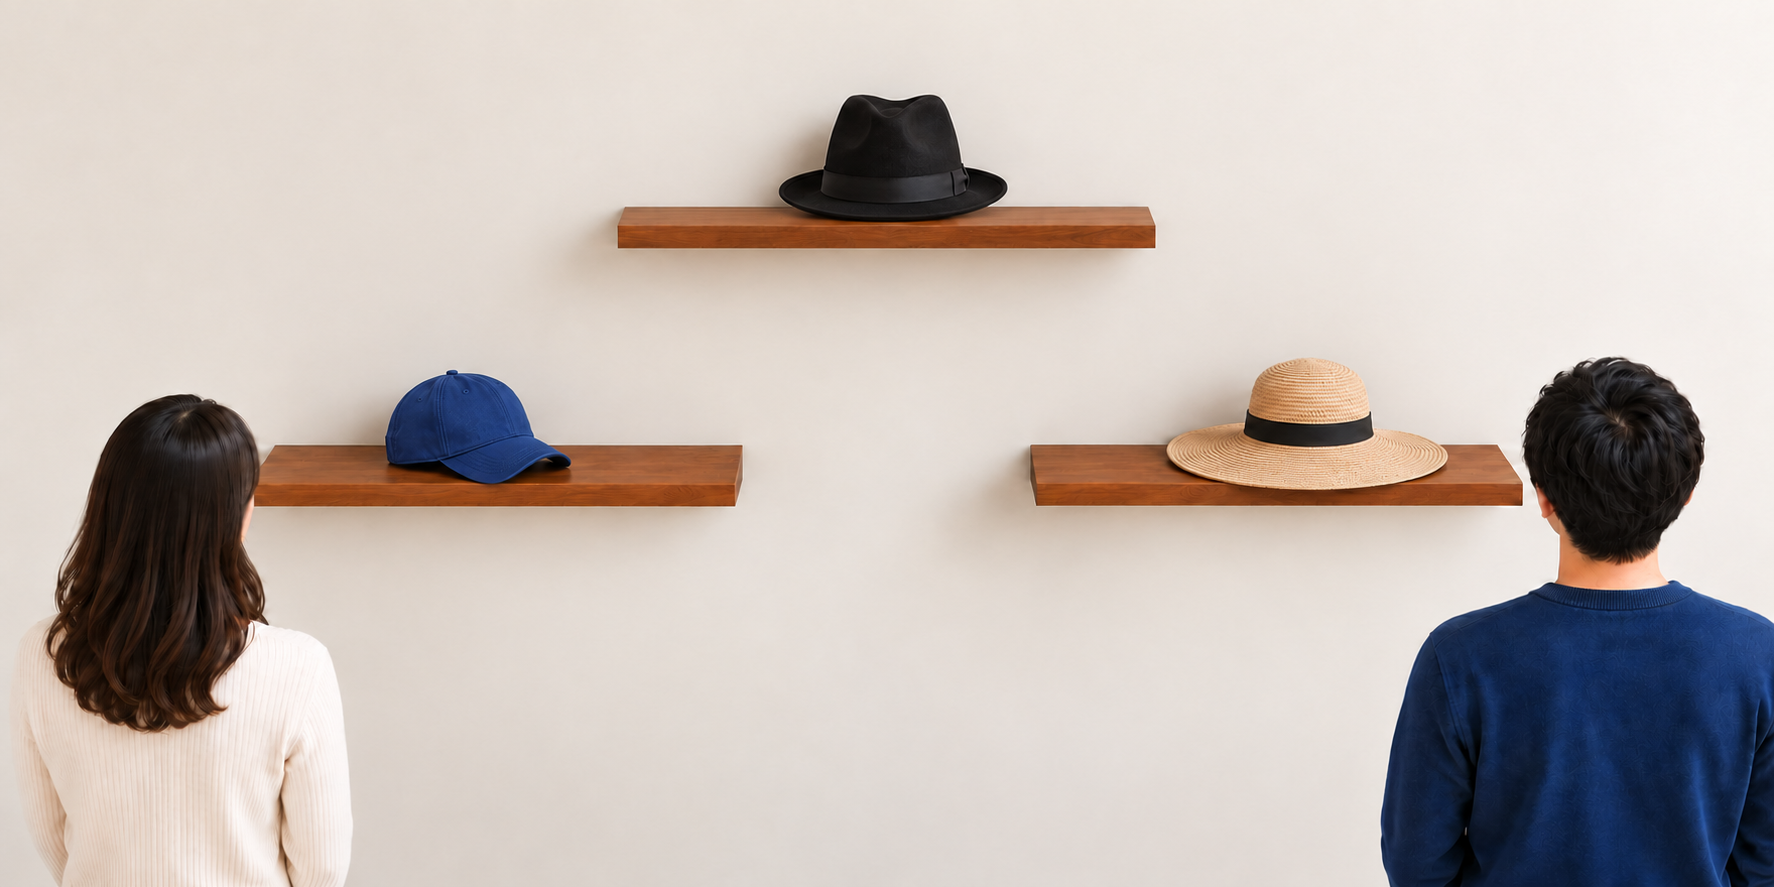
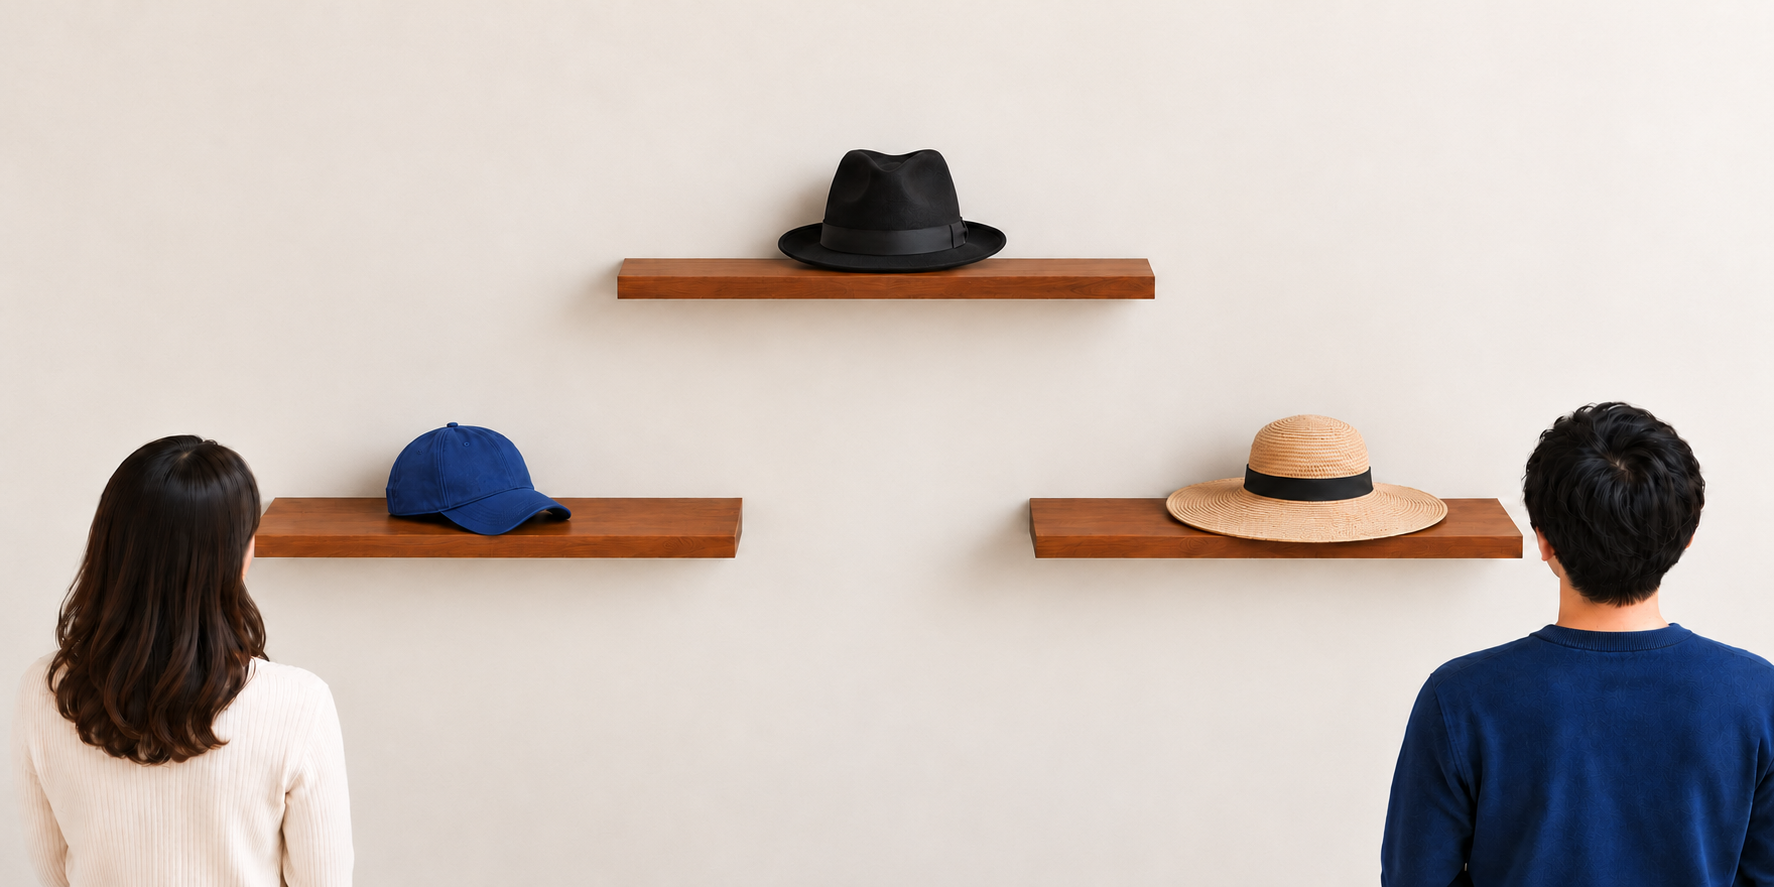
Clarify scene audio and unknown cue, unify spacing and shop frames

diff --git a/practice2-next.js b/practice2-next.js
@@ -1255,6 +1255,15 @@ function practice2ShowNotice(resultSpan, message) {
         const shop=is22&&!people;
         const hats=shop&&(example||Boolean(objects[0]?.photoKind));
         const photoKind=objects[0]?.photoKind;
+        // Coordinates refer to the photographed products, not the surrounding shelf.
+        const shopGeometry={
+            hats:{centers:[[27,54],[74,54],[50,24]],tops:[47,46,17]},
+            bag:{centers:[[27,54],[73,54],[50,26]],tops:[43,44,16]},
+            clock:{centers:[[26.5,55],[73,58],[50,23]],tops:[46,53,14]},
+            fruit:{centers:[[27.5,52],[72.5,53],[50,24]],tops:[46,48,19]},
+            onigiri:{centers:[[27.5,54],[72.5,54],[50,25]],tops:[49,49,20]},
+            bento:{centers:[[30,57],[73,57],[50,28]],tops:[50,50,19]}
+        }[photoKind||'hats'];
         const picture=node('div','p21-drill-picture p2x-picture');
         picture.classList.toggle('p2x-shop-picture',shop);picture.classList.toggle('p2x-cropped-picture',shop);
         picture.classList.toggle('p2x-hat-picture',hats);
@@ -1281,14 +1290,14 @@ function practice2ShowNotice(resultSpan, message) {
         }
         const context=node('p','p21-photo-context p2x-speaker-guide');
         SpeakerGuide.init(context);
-        const peoplePositions=hats?{A:[11,70],B:[88,70]}:people?{A:[7,30],B:[88,27]}:is22?{A:[2,4],B:[94,4]}:{A:[6,17],B:[60,17]};
+        const peoplePositions=hats?{A:[11,78],B:[88,78]}:people?{A:[7,30],B:[88,27]}:is22?{A:[2,4],B:[94,4]}:{A:[6,17],B:[60,17]};
         for(const person of ['A','B']) {
             const label=node('strong','p2x-person',person);label.dataset.person=person;
             label.style.left=peoplePositions[person][0]+'%';label.style.top=peoplePositions[person][1]+'%';stage.append(label);
         }
         const audioGrid=node('div','p2x-audio-grid');
         for(const [i,o] of objects.entries()) {
-            const position=hats?{A:[photoKind==='clock'?26.3:photoKind==='onigiri'||photoKind==='bento'||photoKind==='fruit'?30:25,photoKind==='clock'?44:48],B:[photoKind==='clock'?73:74,photoKind==='clock'?48:46],far:[50,photoKind==='clock'?29:18]}[o.zone]:!is22?{A:[20,84],B:[51,84],far:[84,76]}[o.zone]:people?{A:[28,48],B:[73,46],far:[50,35]}[o.zone]:{A:[25,52],B:[73,53],far:[50,23.5]}[o.zone];
+            const position=hats?shopGeometry.centers[['A','B','far'].indexOf(o.zone)]:!is22?{A:[20,84],B:[51,84],far:[84,76]}[o.zone]:people?{A:[28,48],B:[73,46],far:[50,35]}[o.zone]:{A:[25,52],B:[73,53],far:[50,23.5]}[o.zone];
             const target=node('div',people?'p2x-person-target':'p2x-object');target.dataset.zone=o.zone;target.dataset.kind=o.kind;target.dataset.color=o.colorName||'';
             target.style.left=position[0]+'%';target.style.top=position[1]+'%';
             if(photoKind==='clock'){target.style.width=(o.zone==='A'?11:10)+'%';target.style.aspectRatio=o.zone==='B'?'1.8':'1';}
@@ -1303,7 +1312,11 @@ function practice2ShowNotice(resultSpan, message) {
                 if(is22&&(!which||photoKind)) {
                     const tag=node('span','p2x-price',`¥${o.priceNumber.toLocaleString('en-US')}`);
                     if(!example&&!model){tag.classList.add('p2x-price-hint');imageHint(tag,{...o,hintText:o.priceHira});}
-                    if(hats) {tag.style.left=(photoKind==='clock'&&o.zone==='B'?73:position[0])+'%';tag.style.top=(o.zone==='far'?0:photoKind==='bag'||photoKind==='clock'&&o.zone==='A'?21:29)+'%';tag.style.bottom='auto';if(photoKind==='fruit')tag.dataset.itemTop={A:41,B:43,far:14}[o.zone];stage.append(tag);}
+                    if(hats) {
+                        tag.style.left=position[0]+'%';
+                        const itemTop=shopGeometry.tops[['A','B','far'].indexOf(o.zone)];
+                        tag.style.top=`calc(${itemTop}% - 3px)`;tag.style.transform='translate(-50%,-100%)';tag.style.bottom='auto';stage.append(tag);
+                    }
                     else target.append(tag);
                 }
             }
@@ -1346,16 +1359,6 @@ function practice2ShowNotice(resultSpan, message) {
             moveAudio();media.addEventListener('change',moveAudio);shopAudioCleanups.push(()=>media.removeEventListener('change',moveAudio));
         }
         container.append(picture);
-        if(photoKind==='fruit'){
-            const canvas=stage.querySelector('.p2x-scene-canvas'),tags=[...canvas.querySelectorAll('.p2x-price')];
-            const trimExistingWall=()=>{const height=canvas.getBoundingClientRect().height;if(!height)return;
-                for(const tag of tags)tag.style.top=Math.max(0,Number(tag.dataset.itemTop)/100*height-tag.getBoundingClientRect().height-3)+'px';
-                const crop=Math.max(0,Math.min(...tags.map(tag=>parseFloat(tag.style.top)))-3);
-                canvas.style.top=-crop+'px';stage.style.height=height*.86-crop+'px';context.style.top=crop+3+'px';
-            };
-            const observer=new ResizeObserver(trimExistingWall);observer.observe(canvas);const frame=requestAnimationFrame(trimExistingWall);
-            shopAudioCleanups.push(()=>{observer.disconnect();cancelAnimationFrame(frame);});
-        }
         function select(speaker,zone) {
             picture.dataset.speaker=speaker;picture.dataset.target=zone||'';
             context.dataset.nextSpeaker=speaker;

diff --git a/style.css b/style.css
@@ -324,7 +324,7 @@
     }
 }
 /* 共通：Exampleから対応するDrillまで */
-.practice-section > .example-box + .info-panel {
+.example-box + .info-panel {
     margin-top: var(--example-drill-gap);
 }
 
@@ -453,7 +453,7 @@
 }
 
 #drill1Container:has(.p73-example) .info-panel {
-    margin-top: 25px;
+    margin-top: var(--example-drill-gap);
 }
 
 #drill1Container .p73-controls button {
@@ -2857,3 +2857,28 @@ body[data-practice="2.3"] .tooltip-tip { position: fixed; left: 12px; top: 12px;
  .p2x-food-example .p21-question-sound { font-size: 20px; }
 }
 .p21-which-example .p21-drill-picture { position: relative; }
+
+/* Example 2: speech starts next to its person; the unknown is the focal point. */
+.p21-which-audio { position: absolute; z-index: 8; top: 72%; min-width: 5em; }
+.p21-which-audio[data-speaker="A"] { left: 5%; }
+.p21-which-audio[data-speaker="B"] { right: 5%; }
+.p21-which-example .p21-thought-cloud path { fill: #ffe3e3; stroke: #b91c1c; stroke-width: 2; }
+.p21-which-example .p21-which-guide { color: #b91c1c; text-shadow: none; }
+.p21-which-example .p21-question-description { font-weight: 700; }
+
+.example-box + .drill-row { margin-top: var(--example-drill-gap); }
+
+/* Shop photos include real wall headroom and share one visible frame. */
+.p2x-cropped-picture .p2x-stage { aspect-ratio: 2 / .94; }
+.p2x-cropped-picture .p2x-photo:not(.p2x-reach-foreground) { clip-path: inset(0 0 6%); }
+.p2x-cropped-picture .p2x-distance-label:not([data-zone="far"]) { top: 66% !important; }
+.p2x-cropped-picture .p2x-distance-label[data-zone="far"] { top: 17%; }
+.p2x-cropped-picture .p2x-audio[data-zone="B"] { left: calc(66.5% - 3px) !important; transform: translateX(-100%); }
+.p2x-food-example .p21-which-guide { top: calc(79.5% - 33px); }
+@media(max-width:450px) { .p2x-food-example .p21-which-guide { top: calc(79.5% - 24px); } }
+
+.p2x-reach[data-reach="A"], .p2x-reach[data-reach="B"] { top: 43%; height: 30%; }
+.p2x-reach[data-reach="far"] { top: 12%; height: 30%; }
+.p2x-reach-foreground[data-zone="A"] { clip-path: polygon(21.5% 58.5%,21.8% 53%,23% 50%,25% 48%,27% 48%,29% 50%,30% 54%,32.4% 58%,32% 60.5%,29% 60.8%,27.5% 59.5%,25.5% 60%,22% 59.5%); }
+.p2x-reach-foreground[data-zone="B"] { clip-path: polygon(66% 57%,69.5% 55%,70% 50%,71% 47%,74% 46%,76% 48%,77.5% 54%,82% 57%,81% 60%,77% 62%,71% 62%,66% 60%); }
+.p2x-reach-foreground[data-zone="far"] { clip-path: polygon(44% 29%,46% 27%,46.5% 20%,48% 16%,50% 18%,52% 16%,54% 19%,54.5% 27%,56% 29%,55% 31%,45% 31%); }

diff --git a/practice2.1.js b/practice2.1.js
@@ -1475,8 +1475,14 @@ function practice2ShowNotice(resultSpan, message) {
         const mine=exampleObjects[0],yours=exampleObjects[1];
         const aText=()=>statement(word('わたしの','私の')+noun(mine),pro('A',mine))+whichQuestion(yours);
         const bText=()=>shortAnswer('B',yours);
-        const qLine=node('p'),rLine=node('p');qLine.append(node('strong','','A · Question: '),listen(()=>{showExample('A');return aText();},'🔊きく',()=>showExample.announce('A')),modelText(aText,phone));
-        rLine.append(node('strong','','B · Response: '),listen(()=>{showExample('B');return bText();},'🔊きく',()=>showExample.announce('B')),modelText(bText,phone));
+        const qLine=node('p'),rLine=node('p');
+        for(const [speaker,text] of [['A',aText],['B',bText]]) {
+            const button=listen(()=>{showExample(speaker);return text();},`${speaker}🔊きく`,()=>showExample.announce(speaker));
+            button.classList.add('p21-which-audio');button.dataset.speaker=speaker;
+            exampleBox.querySelector('.p21-example-scene-canvas').append(button);
+        }
+        qLine.append(node('strong','','A · Question: '),modelText(aText,phone));
+        rLine.append(node('strong','','B · Response: '),modelText(bText,phone));
         exampleBox.append(qLine,rLine);d3.append(exampleBox);showExample('A');
         const panel3=node('div','info-panel info-panel-task1');panel3.append(node('span','info-panel-title','Drill 3: Which one?'),node('span','info-panel-desc','💡Take turns asking. Use これ／それ／あれ for the color shown.'));d3.append(panel3);
         const s3=setButtons(d3,[noun(item('dictionary')),noun(item('wallet'))],'choosingSet');

diff --git a/practice1.1.js b/practice1.1.js
@@ -1488,7 +1488,7 @@ function section(
     container.innerHTML = `
         <div
             class="info-panel ${className}"
-            style="margin-top:${margin}px;"
+            style="margin-top:var(${margin});"
         >
             <span class="info-panel-title">${title}</span>
             <span class="info-panel-desc instruction-steps">${instruction}</span>
@@ -1511,7 +1511,7 @@ function renderTask1() {
         "Drill 1: Basic Sentences",
         "💡Make 🟢 affirmative and 🔴 negative sentences.",
         "info-panel-task1",
-        25
+        "--example-drill-gap"
     );
 
     if (!list) return;
@@ -1624,7 +1624,7 @@ function renderTask2() {
         "Drill 2: Selectable Practice",
         "💡Choose X and Y, then make a sentence.",
         "info-panel-task2",
-        30
+        "--practice-section-gap"
     );
 
     if (!list) return;
@@ -1735,7 +1735,7 @@ function renderTask3() {
         "Drill 3: Free Practice",
         "💡Enter X and Y.\nMake a 🟢 affirmative or 🔴 negative sentence.",
         "info-panel-task3",
-        30
+        "--practice-section-gap"
     );
 
     if (!list) return;

diff --git a/docs/UI_LAYOUT_SPEC.md b/docs/UI_LAYOUT_SPEC.md
@@ -208,7 +208,7 @@ L1・L2ページはHiragana初期表示。練習2のWith漢字は参考漢字表
 
 ### 2026-10-28の練習2調整
 - 2.1 E1のこ・そ文字は約10px下へ。音声6ボタンの97.171875px実測値は1440px幅・Chromium・ブラウザ100％時。E2のスマホ図はExample75％／狭幅100％、Drillは辞書と財布。
-- 2.2は独立した2:1座標キャンバスを設け、下14％だけを隠す。Whoを図の上へ、700px以下では実体の音声ボタンを図下へ移動し各品物のA/B縦並びを保つ。E1の文はA/B横見出し。
+- 2.2は独立した2:1座標キャンバスを設ける。現行の可視範囲とWho配置は末尾の最新調整を参照。700px以下では実体の音声ボタンを図下へ移動し各品物のA/B縦並びを保つ。E1の文はA/B横見出し。
 - 2.3は写真内の色領域・右下音声へ。図外の文字・操作帯を使わない。450px以下の英語補足は視覚的に隠し、音・色を優先して頭部への重なりを防ぐ。
 
 ### 話者案内と値札余白の統一（2026-10-28追補）
@@ -219,4 +219,11 @@ L1・L2ページはHiragana初期表示。練習2のWith漢字は参考漢字表
 ### 再生終了のリセットと原画配置へ復帰（2026-10-28）
 - 共通Who案内はPlaying終了時に問いへ戻す。2.1 E2は図枠をposition:relativeとし、案内を図内左上3pxへ置く。ど案内は中央、丸はA側へ。上端5％を表示トリミングし、物と人物の座標は同じキャンバス内で維持。D3からど案内を撤去、青財布のみ4px左へ。
 - 2.2 E1の前回の再配置・動的上部余白を撤回。元の領域・近い音声・値札位置を復元。遠い音声は図内左・上端3px。Whoは1行で、音声との重なりを許容する。700px以下の図下配置に戻す。
-- 白い帯・正方向のキャンバス移動による背景追加は不可。果物Exampleは既存画像を上へ切る処理だけ許容。ど雲は下段棚の下端と見えている下枠の中央へ置く。
+- 白い帯・正方向のキャンバス移動による背景追加は不可。果物だけの可変トリミングは後述の最新調整で廃止。ど雲は下段棚の下端と見えている下枠の中央へ置く。
+
+### Exampleの間隔・図内音声・棚写真の現行仕様（2026-10-28）
+- 全ページのExample→対応Drillは24px、次の練習セクションは40px。共通CSS変数を使用し、コンテナにpractice-sectionがない場合も適用する。1.1の別コンテナ構造も同値。7.3の旧25pxを廃止。
+- 2.1 E2のA/B音声は写真内の各人物の近く。図外は話者付きの全文表示を保つ。「ど」の雲は不透明な薄赤、濃赤文字・枠で表示し、テーブル色に埋もれさせない。
+- 2.2の6写真は自然な壁を含めて上部を編集する。白い帯・正方向のキャンバス移動で余白を作らない。時計の上段棚は帽子とほぼ同じ高さへ戻す。棚幅の一括短縮は提案段階で未実施。
+- 2.2 E1/E2/E3は同じ幅・可視縦横比2:0.94。2:1の原画座標を保ち下6％を隠す。果物だけの上部切り詰めを廃止。値札は写真別の商品上端に3pxの間隔で固定し、写真自体を切り詰めない。上端の余裕は自然な壁とWho/音声の配置に必要な範囲で確保する。
+- 2.2 E1こ/そ説明は下段棚のすぐ下。そ側音声は帽子の左端に沿わせる。700px以下は既存の図下配置を維持する。

diff --git a/docs/HANDOVER.md b/docs/HANDOVER.md
@@ -3,6 +3,7 @@
 最終更新日：2026-10-28
 
 ## 現在のリレー状態（2026-10-28／Europe/Vienna）
+- 今回開始時main ab98715／work、クリーン・同期確認。2.1 E2のA/B音声を写真内の人物近くへ、ど雲を不透明な薄赤＋濃赤文字/枠へ。Example→Drillの適用漏れを全11ページ点検、2.1 E2・1.1の25px・7.3の25pxを共通24px、1.1次セクションは40pxへ。2.2の6写真を実際の壁が続くよう編集、時計上段棚を帽子に近い高さへ、金額を商品直上3pxアンカーへ。E1こ/そ説明は棚直下、B音声を帽子の左へ。果物だけの可変上部トリミングを撤去し全Example可視枠2:0.94で統一。棚幅の一括短縮（1〜2割案）は意見提示のみで未実施。自動検証：2.1 792件、2.2 404件、2.3 236件、話者案内124件、全ページ間隔/図枠52件、TTS22件、1.1は20件合格。600/1440px描画確認済み。利用枠取得不可・既存確認待ち。ユーザー実機未確認。
 - 今回開始時main 46472a6／work、GitHub同期・クリーン確認。再生終了後のWho復帰を共通化。2.1 E2案内を画像内左上・どを中央・丸をA方向、上5％をカット。D3のど撤去、青財布4px左。2.2 E1は近い音声/値札/領域/文字を元配置へ戻し、遠い音声だけ左位置を保ち上へ。Who1行。白帯・上への人工余白を撤去し、果物だけ不要な既存壁をトリミング。Ex3のどを棚と下枠の中央へ。追加指示で腕時計③の銀色アナログ/壁時計①の木枠多色目盛りを参考に時計素材を生成し差し替え。2.1は792件、2.2は404件、2.3は236件、TTS22件合格。話者/配置の追加124件も合格。実機未確認。帽子の壁延長は未実施。
 - 担当Codex／ルール2026-10-25.2。今回の開始時main 285467b／work。保存先main。
 - 今回：2.3屋内3案・街3案の横長画像をリンク用review素材として作成。指定説明英文は削除、画像差し替え・タイトル・時差課題は相談段階。追加指示で2.1対象枠を品物へ、2.2 D1をPriceキュー・Bその/Aこの/Bあの（同じ左品物を2視点、ユーザー確認済み）に変更。時計写真を壁時計・置時計・大きいスポーツ腕時計へ。吹き出しの丸を本体へ寄せ、D3補足を説明欄へ統合。2.1の809件、新2ページ633件、全11ページTTS22件合格。開始時main 057f0a0。

diff --git a/docs/PRACTICE22_23_SPEC.md b/docs/PRACTICE22_23_SPEC.md
@@ -105,5 +105,10 @@
 ## 2026-10-28 最新の話者・配置調整
 - 初期・再生終了後はWho is speaking?。再生中のみA is speaking／B is speakingと点滅。中断・エラー時も問いへ戻す。Drillに案内は追加しない。
 - 2.2 E1は以前の近い2組の音声・値札・こそあ領域・文字位置へ戻す。遠い音声の左位置を保ち上へ。Whoは写真内で1行、音声との重なりを許容。700px以下は図下へ。
-- 共通の動的な上部追加を撤去。白い帯は使わない。帽子写真に壁の追加は行わず、将来必要なら写真自体を編集する案を提示する。果物Exampleは既存壁の不要部分を切るだけにし、上へ余白を追加しない。どの雲は下段棚と下枠の中央。
+- 共通の動的な上部追加を撤去。白い帯は使わない。今回の追加指示により6写真の壁自体を自然につなぐ画像編集を行う。果物だけの可変トリミングを廃止し、E1/E2/E3の表示サイズを統一する。どの雲は下段棚と下枠の中央。
 - 時計写真を選定済みの銀色アナログ腕時計・木枠多色目盛り時計へ差し替え。両方商品として棚上に置く。値札と新しい品物が重ならないように写真とヒントの位置を合わせる。
+
+## 2026-10-28 図の見通しと間隔
+- 写真6種の上部は実際の壁が続く画像とし、HTMLの白帯で補わない。中央棚の一括短縮は意見提示のみで保留。時計の上段棚は帽子に近い高さへ復帰し、上下段が近すぎる配置を解消。
+- E1/E2/E3の可視枠は同一幅・2:0.94。商品アンカーに値札を3px離して置く。時計の金額は対象時計の真上。こ/そは下段棚直下、そ音声は帽子の左端へ寄せる。
+- Exampleから対応Drillは全ページ共通24px、次セクション40px（UI_LAYOUT_SPEC）。

diff --git a/docs/PROJECT_SPEC.md b/docs/PROJECT_SPEC.md
@@ -1033,3 +1033,6 @@ Voice変更時の旧モデル曲線消去は実装済み。モデル文変更時
 - 2.2 E1は6405a65時点の近い音声・値札・領域・文字の配置へ戻す。遠い帽子の音声は枠の左を維持して上端3pxへ。Whoは写真内で1行、音声との重なりはユーザー許容。狭幅は従来の700px以下の図下配置を維持。
 - 白い上部追加を撤去。帽子写真に追加の壁は生成しない。写真上部を増やす場合は素材そのものの壁を自然に延長する案を先に提示する。果物Exampleは不要部分を切るだけにし、上に余白を足さない。ど案内は下段棚と可視下枠の中間へ。
 - 時計はユーザー選定の腕時計③（銀色金属ベルト・白文字盤のアナログ）と壁時計①（木枠・多色目盛り）を参考に新規生成して差し替える。ブランドロゴ・商品写真をそのまま転載しない。両方を棚上の商品とし、中央上段を下げて腕時計全体と値札が重ならないようにする。
+
+### 2026-10-28 Example表示の補足
+- Example→Drillの24px／次セクション40pxを全ページ共通変数で適用。2.1 E2は図内人物近くのA/B音声と不透明な「ど」吹き出し。2.2は壁が自然に続く6写真、3つのExampleの可視画像サイズを統一。中央棚の幅短縮は未確定。詳細はUI_LAYOUT_SPECの最新節を参照。
